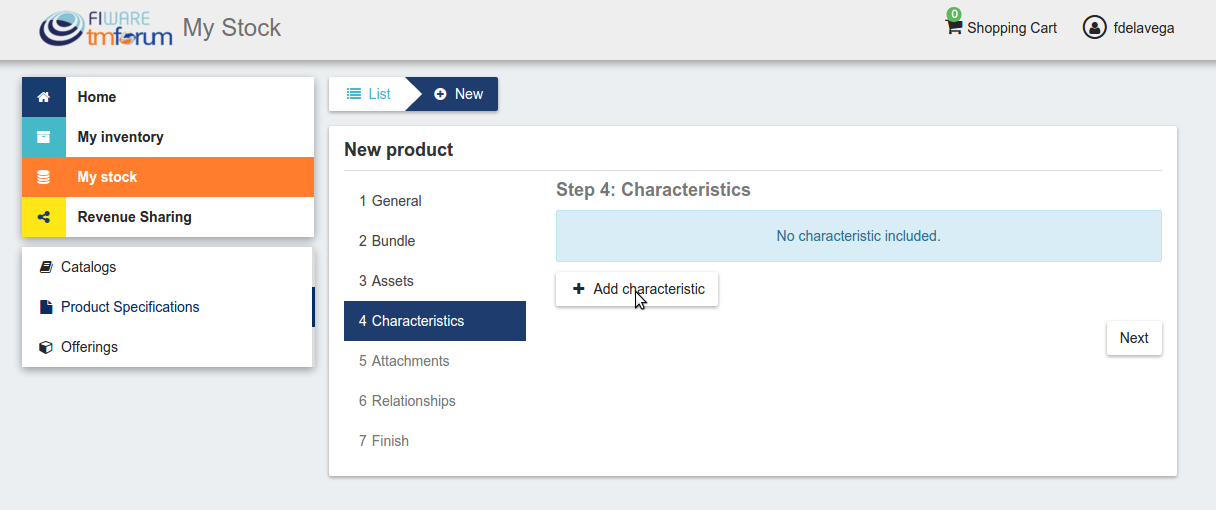
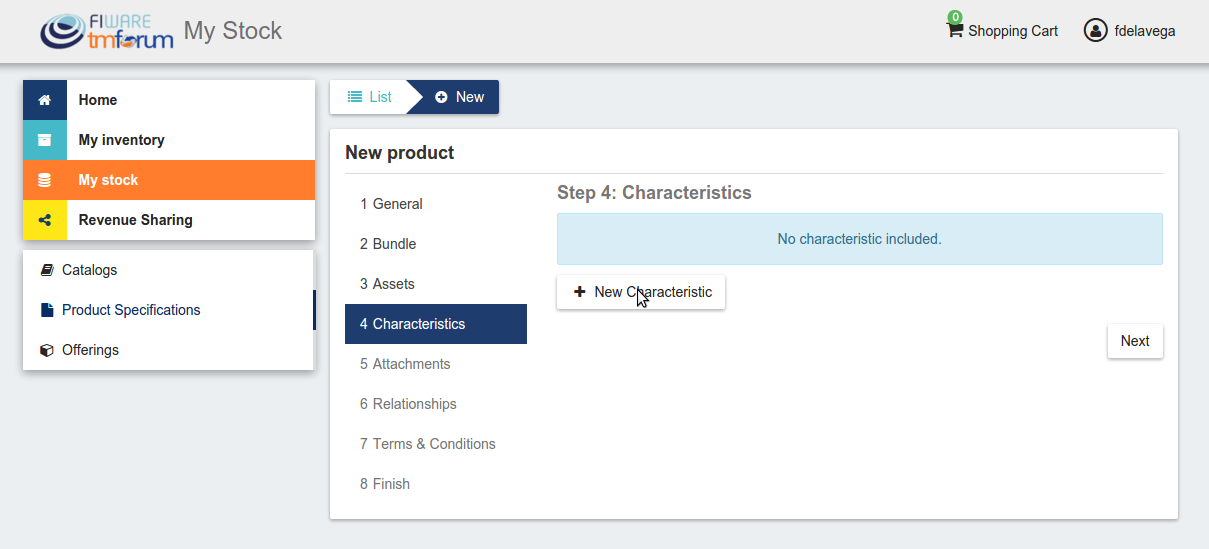
Update Product Spec section of the user guide

Changed region(s): [[0.0, 0.1471, 0.9793, 0.9706], [0.0, 0.0, 1.0, 0.1176]]

diff --git a/doc/user-programmer-guide.rst b/doc/user-programmer-guide.rst
@@ -170,12 +170,12 @@ Then, provide a name and an optional description for the catalog. Once you have 
 .. image:: /images/user/catalog5.png
    :align: center
 
-Sellers, can also update their catalogs. To do that, click on the name of the catalog to open the update view.
+Sellers can also update their catalogs. To do that, click on the name of the catalog to open the update view.
 
 .. image:: /images/user/catalog6.png
    :align: center
 
-Then update the fields you want to modify and click on *Update*. In this view, it is possible to change the *Status* of the
+Then, update the fields you want to modify and click on *Update*. In this view, it is possible to change the *Status* of the
 catalog. To start monetizing the catalog, and make it appear in the *Home* you have to change its status to *Launched*
 
 .. image:: /images/user/catalog7.png
@@ -247,7 +247,7 @@ available options, provide the asset, and include its media type.
    :align: center
 
 The next step in the creation of a product is including its characteristics. For including a new characteristic click on
-*Add Characteristic*
+*New Characteristic*
 
 .. image:: /images/user/product12.png
    :align: center
@@ -258,7 +258,7 @@ characteristic by filling the *Create a value* input and clicking on *+*.
 .. image:: /images/user/product13.png
    :align: center
 
-Once you have included all the characteristic info, save it clicking on *Add Characteristic*
+Once you have included all the characteristic info, save it clicking on *Create*
 
 .. image:: /images/user/product14.png
    :align: center
@@ -277,13 +277,21 @@ picture or directly uploading it. Once provided click *Next*
 .. image:: /images/user/product17.png
    :align: center
 
-In the last step, you can specify relationships of the product you are creating with other of your product specs. Once done
-click on *Next* and then on *Create*
+Then, you can specify relationships of the product you are creating with other of your product specs.
 
 .. image:: /images/user/product18.png
    :align: center
 
+In the last step, you can specify the terms and conditions that apply to your product and that must be accepted by those
+customers who want to acquire it. To do that, include a title and a text for your terms and click on *Next*. Note that
+the terms and conditions are not mandatory.
+
 .. image:: /images/user/product19.png
+   :align: center
+
+Once done click on *Next* and then on *Create*
+
+.. image:: /images/user/product19b.png
    :align: center
 
 Sellers can update their products. To do that click on the product specification to be updated.
